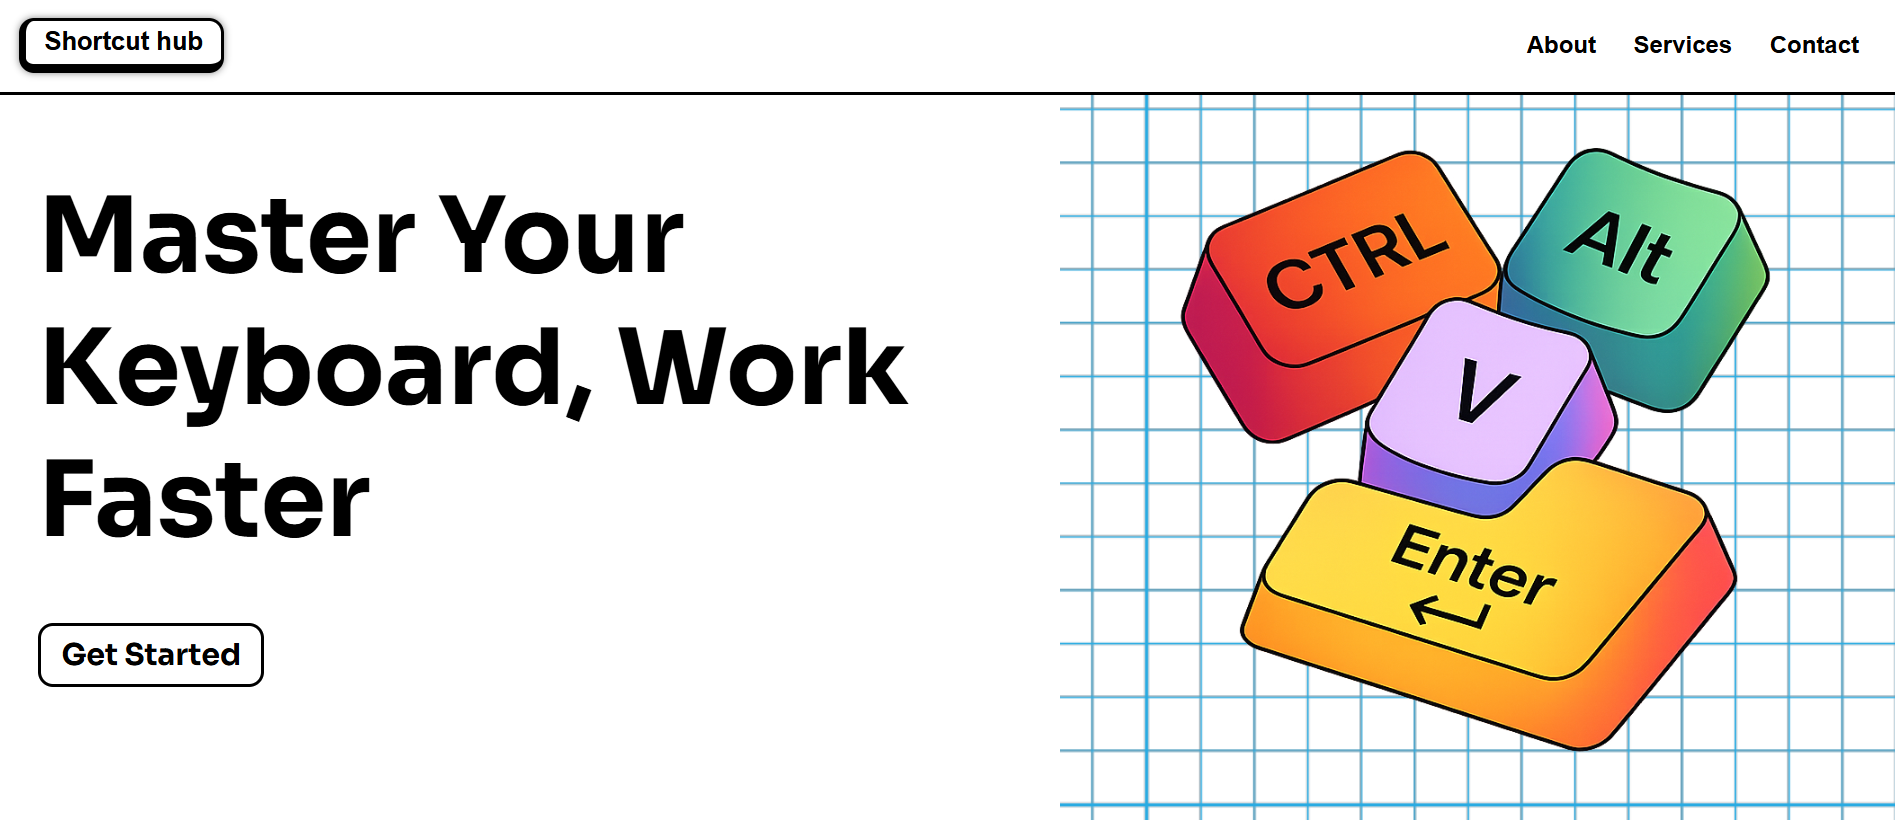
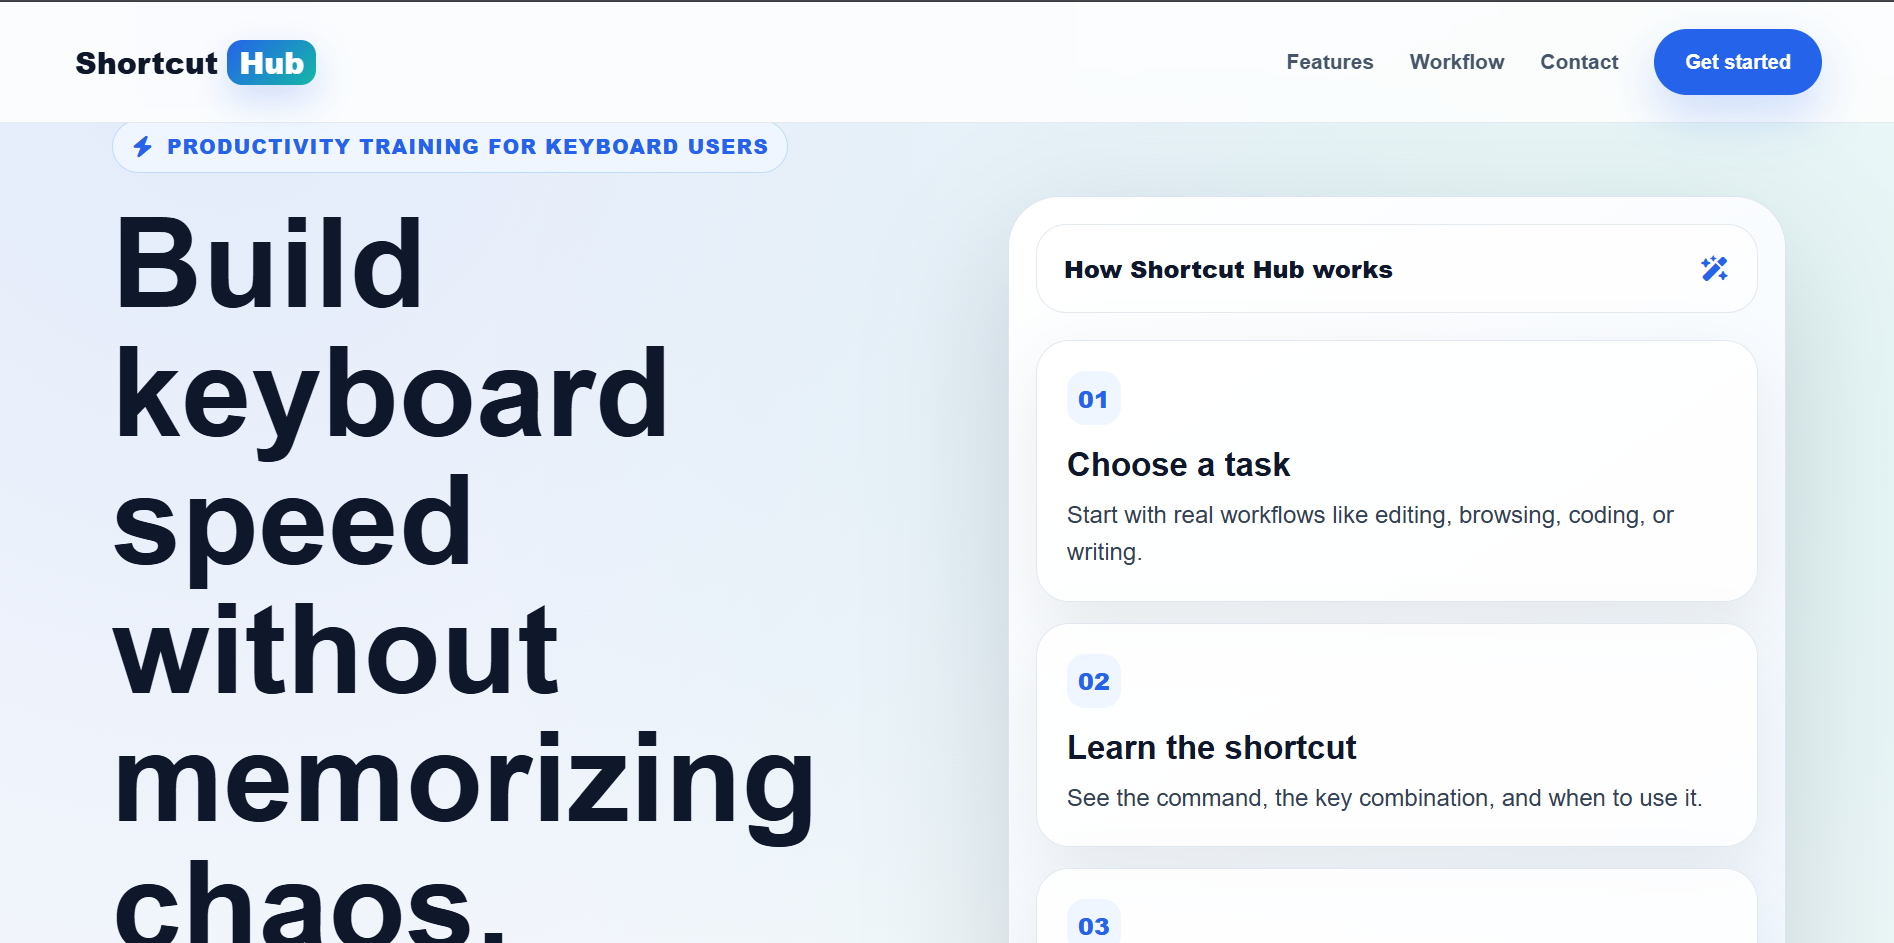
Projects section change

diff --git a/index.html b/index.html
@@ -89,7 +89,7 @@
         <div class="section-heading">
           <p class="section-kicker">Projects</p>
           <h2>Some of my works</h2>
-          <p class="section-copy">A mix of useful tools, futuristic web ideas, personal sites, educational pages, games, and club websites.</p>
+          <p class="section-copy">Some of my major works</p>
         </div>
 
         <div class="project-grid">
@@ -105,117 +105,28 @@
                 <span>CSS</span>
                 <span>JavaScript</span>
                 <span>Google firebase</span>
-                <span>Under development</span>
               </div>
               <div class="project-links">
                 <a href="https://github.com/Prajwaluppalapati/shortcut-hub" target="_blank" rel="noopener">GitHub Repo</a>
-                <a href="https://prajwaluppalapati.github.io/shortcut-hub" target="_blank" rel="noopener">Live Demo</a>
+                <a href="https://shortcuthub.vercel.app" target="_blank" rel="noopener">Live Demo</a>
               </div>
             </div>
           </article>
 
           <article class="project-card">
             <div class="project-banner">
-              <img src="Era-2050AD.png" alt="Era 2050AD project banner">
+              <img src="enideon.png" alt="Enideon project banner">
             </div>
             <div class="project-body">
-              <h3>Era 2050AD</h3>
-              <p>A futuristic concept website about monitoring and controlling a survival base in an imagined advanced world.</p>
+              <h3>Enideon</h3>
+              <p>An AI-powered visual workspace for studying, solving problems, and understanding difficult ideas through an interactive whiteboard.</p>
               <div class="tags">
-                <span>Futuristic UI</span>
-                <span>HTML</span>
-                <span>CSS</span>
-                <span>JavaScript</span>
-                <span>Simulation</span>
-                <span>Game</span>
-                <span>Under development</span>
+                <span>AI</span>
+                <span>Visual Workspace</span>
+                <span>Productivity</span>
               </div>
               <div class="project-links">
-                <a href="https://github.com/Prajwaluppalapati/Era-2050AD" target="_blank" rel="noopener">GitHub Repo</a>
-                <a href="https://prajwaluppalapati.github.io/Era-2050AD" target="_blank" rel="noopener">Live Demo</a>
-              </div>
-            </div>
-          </article>
-
-          <article class="project-card">
-            <div class="project-banner">
-              <img src="prajs-hideout.png" alt="Praj's Hideout project banner">
-            </div>
-            <div class="project-body">
-              <h3>Praj's Hideout</h3>
-              <p>This is my old personal website.</p>
-              <div class="tags">
-                <span>Portfolio</span>
-                <span>HTML</span>
-                <span>CSS</span>
-                <span>JavaScript</span>
-                <span>Firebase</span>
-              </div>
-              <div class="project-links">
-                <a href="https://github.com/Prajwaluppalapati/Prajs-hideout" target="_blank" rel="noopener">GitHub Repo</a>
-                <a href="https://prajs-hideout.web.app/" target="_blank" rel="noopener">Live Demo</a>
-              </div>
-            </div>
-          </article>
-
-          <article class="project-card">
-            <div class="project-banner">
-              <img src="india.png" alt="India project banner">
-            </div>
-            <div class="project-body">
-              <h3>India</h3>
-              <p>An educational website about India, including culture, geography, states, languages, and travel-style pages.</p>
-              <div class="tags">
-                <span>Education</span>
-                <span>HTML</span>
-                <span>CSS</span>
-              </div>
-              <div class="project-links">
-                <a href="https://github.com/Prajwaluppalapati/India" target="_blank" rel="noopener">GitHub Repo</a>
-                <a href="https://prajwaluppalapati.github.io/India" target="_blank" rel="noopener">Live Demo</a>
-              </div>
-            </div>
-          </article>
-
-          <article class="project-card">
-            <div class="project-banner">
-              <img src="dalgona-game.png" alt="Dalgona Game 2D project banner">
-            </div>
-            <div class="project-body">
-              <h3>Dalgona Game 2D</h3>
-              <p>A browser-based 2D game inspired by the classic Dalgona challenge from Squid Game, built as a fun interactive web project. It is not functional right now.</p>
-              <div class="tags">
-                <span>Game</span>
-                <span>HTML</span>
-                <span>CSS</span>
-                <span>JavaScript</span>
-                <span>Not functional</span>
-              </div>
-              <div class="project-links">
-                <a href="https://github.com/Prajwaluppalapati/Dalgona-game-2D" target="_blank" rel="noopener">GitHub Repo</a>
-                <a href="https://prajwaluppalapati.github.io/Dalgona-game-2D" target="_blank" rel="noopener">Live Demo</a>
-              </div>
-            </div>
-          </article>
-
-          <article class="project-card">
-            <div class="project-banner">
-              <img src="cipiklub.png" alt="CIPIKlub project banner">
-            </div>
-            <div class="project-body">
-              <h3>CIPIKlub</h3>
-              <p>An official club website which was created for a coding club at my school. (club not running right now but website is functional)</p>
-              <div class="tags">
-                <span>Official Website</span>
-                <span>HTML</span>
-                <span>CSS</span>
-                <span>JavaScript</span>
-                <span>AI chatbot</span>
-                <span>Responsive</span>
-              </div>
-              <div class="project-links">
-                <a href="https://github.com/Prajwaluppalapati/cipiklub" target="_blank" rel="noopener">GitHub Repo</a>
-                <a href="https://cipiklub.web.app" target="_blank" rel="noopener">Live Demo</a>
+                <a href="https://whiteboardai.app" target="_blank" rel="noopener">Live Demo</a>
               </div>
             </div>
           </article>
@@ -396,7 +307,7 @@
     </main>
 
     <footer>
-      <p>Designed and built by Prajwal.</p>
+      <p>Designed and built for Prajwal.</p>
     </footer>
   </div>
   <script>
